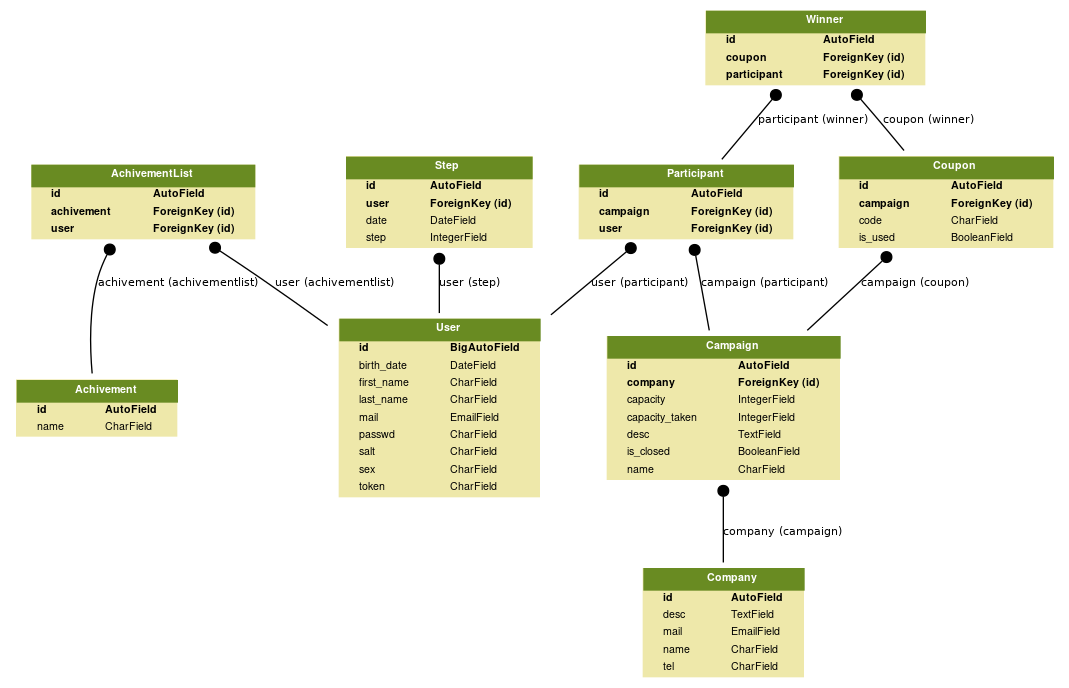
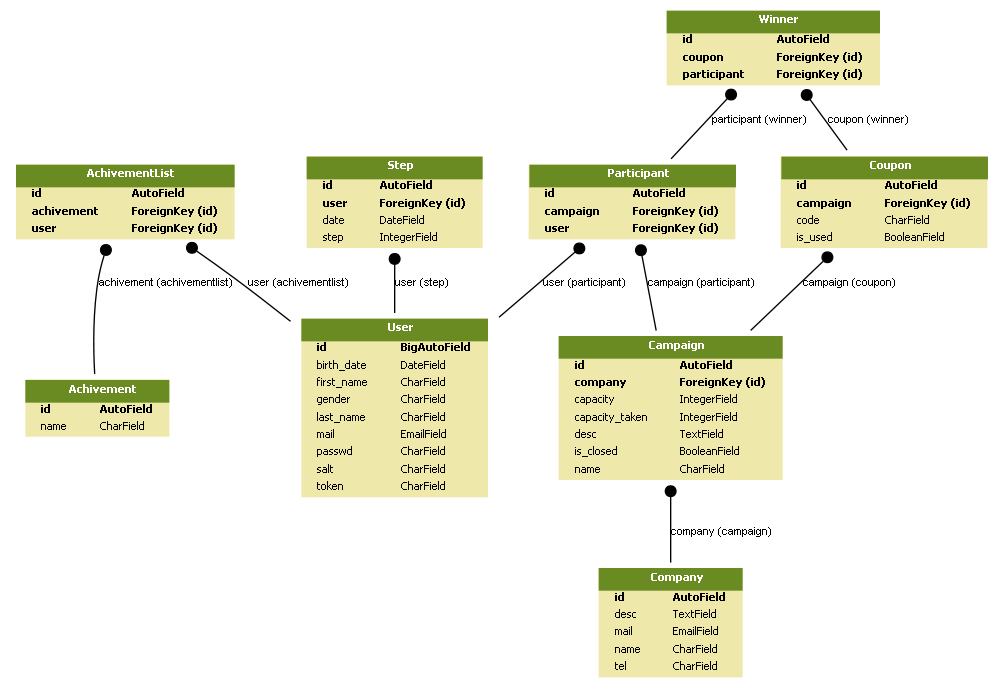
added auth

diff --git a/yuru_api/settings.py b/yuru_api/settings.py
@@ -39,6 +39,7 @@ INSTALLED_APPS = [
     'django.contrib.messages',
     'django.contrib.staticfiles',
     'django_extensions',
+    'rest_framework',
 ]
 
 MIDDLEWARE = [
@@ -101,6 +102,21 @@ AUTH_PASSWORD_VALIDATORS = [
     },
 ]
 
+
+REST_FRAMEWORK = {
+    'DEFAULT_PERMISSION_CLASSES': (
+        'rest_framework.permissions.IsAuthenticated',
+    ),
+    'DEFAULT_AUTHENTICATION_CLASSES': (
+        'rest_framework_jwt.authentication.JSONWebTokenAuthentication',
+        'rest_framework.authentication.SessionAuthentication',
+        'rest_framework.authentication.BasicAuthentication',
+    ),
+}
+
+JWT_AUTH = {
+    'JWT_ALLOW_REFRESH': True,
+}
 
 # Internationalization
 # https://docs.djangoproject.com/en/2.1/topics/i18n/

diff --git a/yuru_api/urls.py b/yuru_api/urls.py
@@ -16,8 +16,13 @@ Including another URLconf
 from django.contrib import admin
 from django.urls import path, include
 from api import urls as api_urls
+from rest_framework_jwt.views import obtain_jwt_token, refresh_jwt_token, verify_jwt_token
 
 urlpatterns = [
     path('admin/', admin.site.urls),
     path('api/', include(api_urls)),
+    path('api-auth/', include('rest_framework.urls')),
+    path('api-token-auth/', obtain_jwt_token),
+    path('api-token-refresh/', refresh_jwt_token),
+    path('api-token-verify/', verify_jwt_token),
 ]
